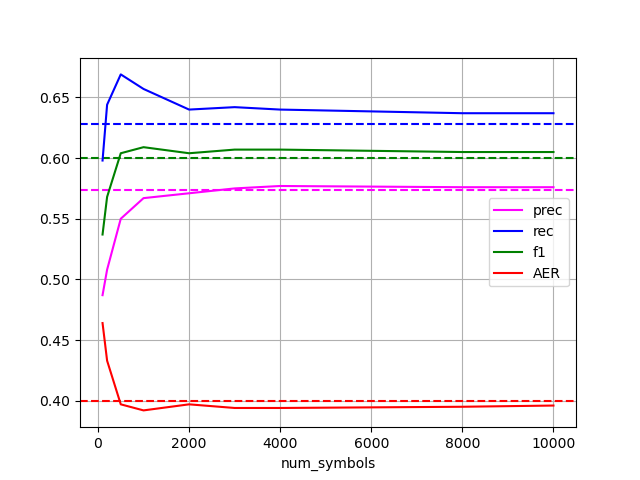
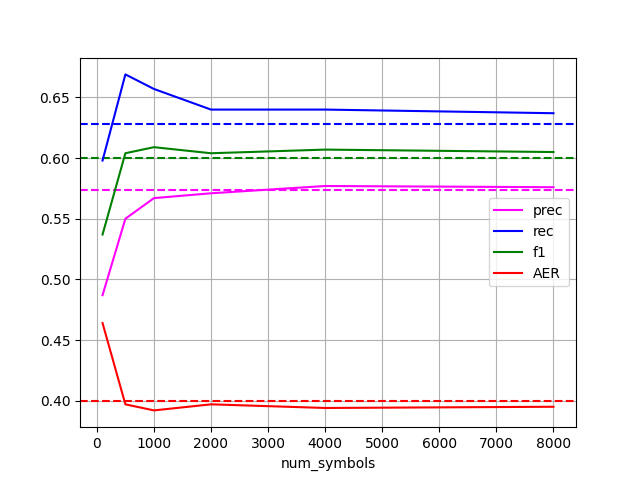
dropout merge of calc_align_score and avg_scores

diff --git a/avg_scores.py b/avg_scores.py
@@ -1,27 +1,14 @@
 import os
 import codecs
 import random
-import inspect
 import pandas as pd
 
-from calc_align_score import load_gold, calc_score, plot_scores
+from calc_align_score import *
+# import global variables from lib/__init__.py
+from lib import *
 
-def get_baseline_score(currentdir):
-    gold_path = os.path.join(currentdir, 'pbc_utils/data/eng_deu/eng_deu.gold')
-    alfile = os.path.join(currentdir, 'data/fastalign/input.gdfa')
-    probs, surs, surs_count = load_gold(gold_path)
-
-    scores = []
-    score = [0]
-    score.extend(list(calc_score(alfile, probs, surs, surs_count)))
-    scores.append(score)
-    baseline_df = pd.DataFrame(scores, columns=['num_symbols', 'prec', 'rec', 'f1', 'AER'])
-    return baseline_df
 
 if __name__ == "__main__":
-    currentdir = os.path.dirname(os.path.abspath(inspect.getfile(inspect.currentframe())))
-    datapath = os.path.join(currentdir, 'data/test_scores')
-    os.chdir(datapath)
 
     avgs = [3, 5, 7, 10]
     for i in avgs:
@@ -32,12 +19,12 @@ if __name__ == "__main__":
             random_idx.add(random.randrange(10))
 
         # baseline score
-        baseline_df = get_baseline_score(currentdir)
+        baseline_df = get_baseline_score()
         df = pd.DataFrame()
 
         for rd_idx in list(random_idx):
 
-            df2 = pd.read_csv(os.path.join(datapath, 'scores_'+str(rd_idx)+'.csv'))
+            df2 = pd.read_csv(os.path.join(bpepath, 'scores', 'scores_'+str(rd_idx)+'.csv'))
 
             # first step of the iteration, just get the whole dataframe
             if df.empty:
@@ -51,8 +38,8 @@ if __name__ == "__main__":
         for col in list(df)[1:]:
             df[col] = df[col].apply(lambda x: x/i)
     
-        df = pd.concat([baseline_df, df])
+        df = pd.concat([baseline_df, df]).round(decimals=3)
 
-        plot_name = 'scores_avg_'+str(i)
-        plot_scores(df, datapath+'/avg', plot_name)
-        df.to_csv(os.path.join(datapath+'/avg', plot_name+'.csv'), index=False)
+        plot_name = 'scores/avg/scores_avg_'+str(i)
+        df.to_csv(os.path.join(bpepath, plot_name+'.csv'), index=False)
+        plot_scores(df, join(bpepath, plot_name))

diff --git a/calc_align_score.py b/calc_align_score.py
@@ -63,6 +63,19 @@ def calc_score(input_path, probs, surs, surs_count):
 	return y_prec, y_rec, y_f1, aer
 
 
+def get_baseline_score():
+    alfile = join(bpepath, 'fastalign/input.gdfa') 
+    gold_path = join(rootdir, 'tools/pbc_utils/data/eng_deu/eng_deu.gold')
+    probs, surs, surs_count = load_gold(gold_path)
+
+    scores = []
+    score = [0]
+    score.extend(list(calc_score(alfile, probs, surs, surs_count)))
+    scores.append(score)
+    baseline_df = pd.DataFrame(scores, columns=['num_symbols', 'prec', 'rec', 'f1', 'AER']).round(decimals=3)
+    return baseline_df
+
+
 def plot_scores(df, scoredir):
 
 	plt.clf()
@@ -86,19 +99,18 @@ def plot_scores(df, scoredir):
 	plt.savefig(join(scoredir+'.png'))
 	return
 
+
 def calc_align_scores(i=-1):
-
+	
+	gold_path = join(rootdir, 'tools/pbc_utils/data/eng_deu/eng_deu.gold')
+	probs, surs, surs_count = load_gold(gold_path)
+	
+	baseline_df = get_baseline_score()
 	scores = []
-
-	# calc score of input
-	alfile = join(bpepath, 'fastalign/input.gdfa')
-	score = [0]
-	score.extend(list(calc_score(alfile, probs, surs, surs_count)))
-	scores.append(score)
 
 	# calc score of num_symbols
 	os.chdir(join(bpepath, 'fastalign'))
-	for alfile in glob.glob('[0-9]*_word.gdfa'):
+	for alfile in glob.glob('[0-9]*'+('_'+str(i) if dropout else '')+'_word.gdfa'):
 		num_symbols = alfile.split('/')[-1].split('.')[0].split('_')[0]
 
 		score = [int(num_symbols)]
@@ -106,6 +118,8 @@ def calc_align_scores(i=-1):
 		scores.append(score)
 
 	df = pd.DataFrame(scores, columns=['num_symbols', 'prec', 'rec', 'f1', 'AER'])
+	df = pd.concat([baseline_df, df]).round(decimals=3)
+
 	scoredir = join(bpepath, 'scores', 'scores'+('_'+str(i) if dropout else ''))
 	print(f"Scores saved into {scoredir}")
 	plot_scores(df, scoredir)
@@ -123,7 +137,6 @@ if __name__ == "__main__":
 	'''
 
 	gold_path = join(rootdir, 'tools/pbc_utils/data/eng_deu/eng_deu.gold')
-	probs, surs, surs_count = load_gold(gold_path)
 
 	if dropout > 0:
         # create `dropout_repetitions` segmentations, to aggregate later
@@ -132,5 +145,3 @@ if __name__ == "__main__":
 			calc_align_scores(i)
 	else:
 		calc_align_scores()
-
-
